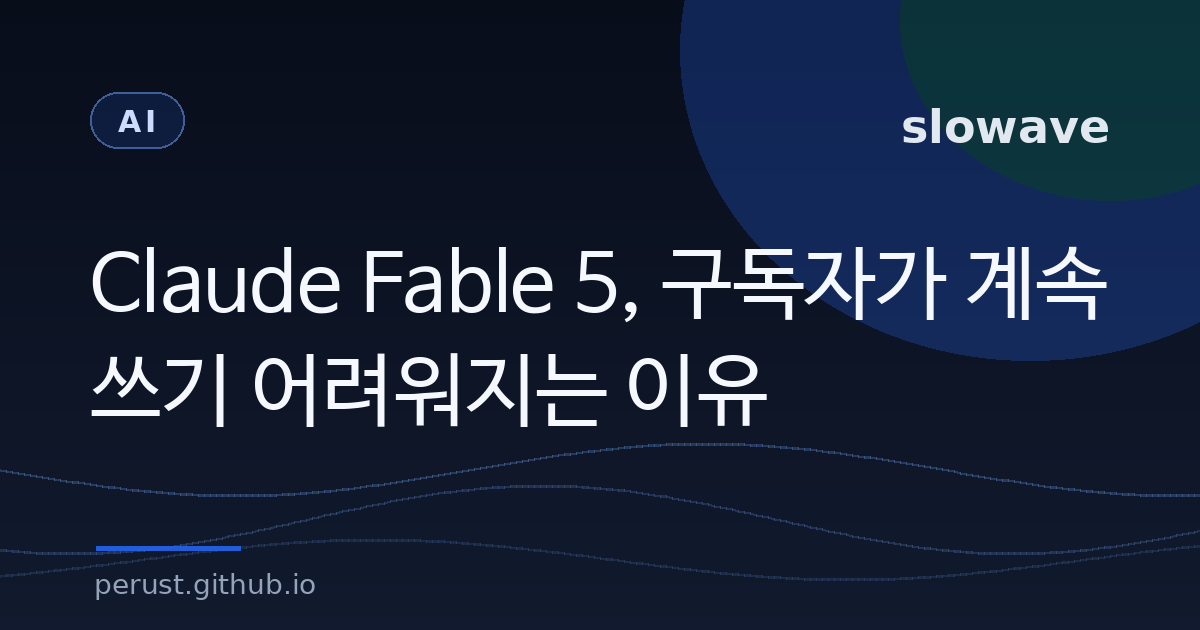
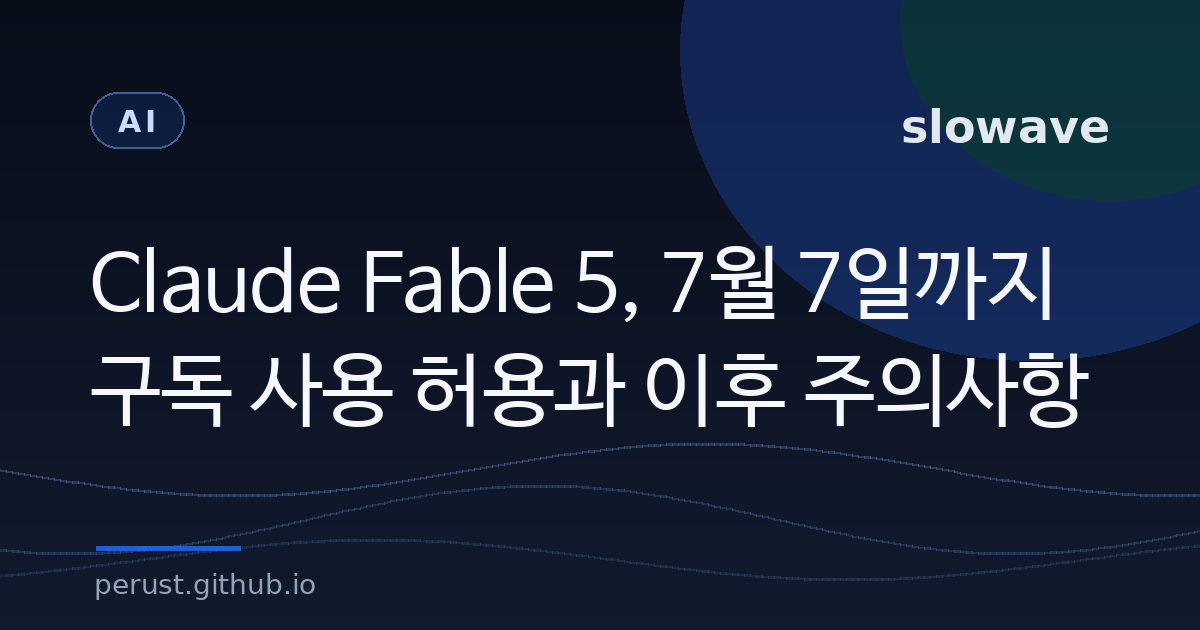
post: update Fable 5 credits title

Changed region(s): [[0.0617, 0.5429, 0.6475, 0.6937], [0.555, 0.3921, 0.925, 0.5127], [0.6783, 0.5429, 0.925, 0.6937]]

diff --git a/src/content/blog/2026-07-02-claude-fable-5-usage-credits.md b/src/content/blog/2026-07-02-claude-fable-5-usage-credits.md
@@ -1,6 +1,6 @@
 ---
-title: "Claude Fable 5, 구독자가 계속 쓰기 어려워지는 이유"
-description: "Claude Fable 5는 7월 7일까지 일부 구독 한도에 포함되고 이후 usage credits 기반 사용으로 전환된다. 구독자와 바이브코더가 봐야 할 비용 구조를 정리했다."
+title: "Claude Fable 5, 7월 7일까지 구독 사용 허용과 이후 주의사항"
+description: "Claude Fable 5는 7월 7일까지 일부 구독 한도에 포함되고 이후 usage credits 기반 사용으로 전환된다. 구독자가 봐야 할 비용·API 키 주의사항을 정리했다."
 date: "2026-07-02T14:51:00+09:00"
 category: "AI"
 tags: ["Claude Fable 5", "Claude Code", "Usage Credits", "AI Coding", "Anthropic"]